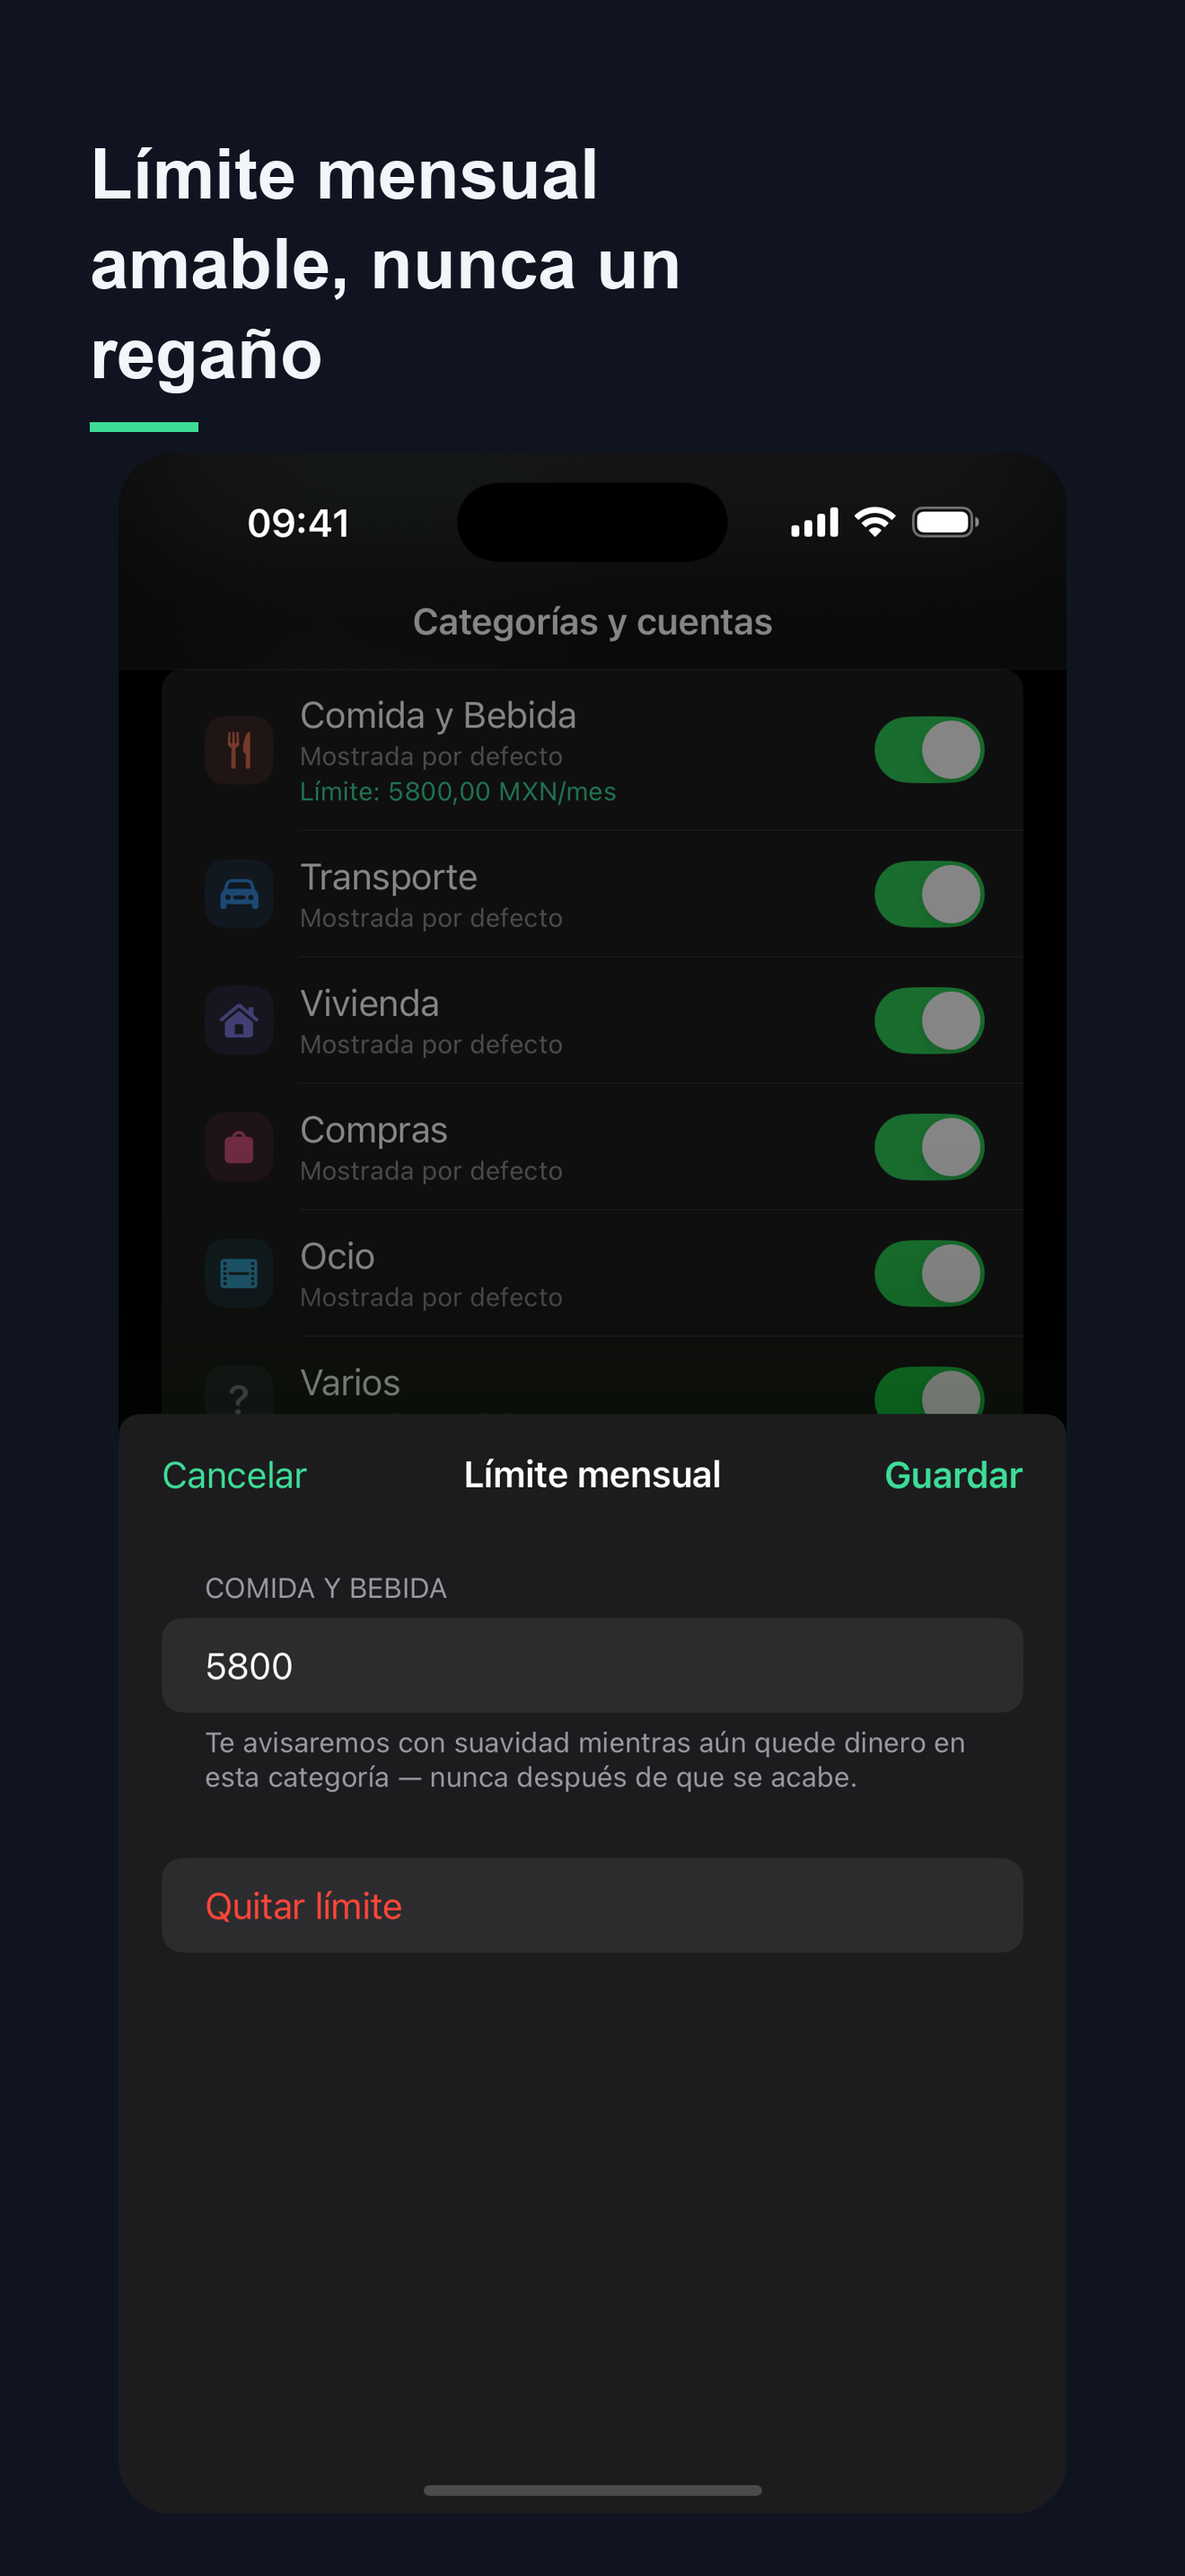
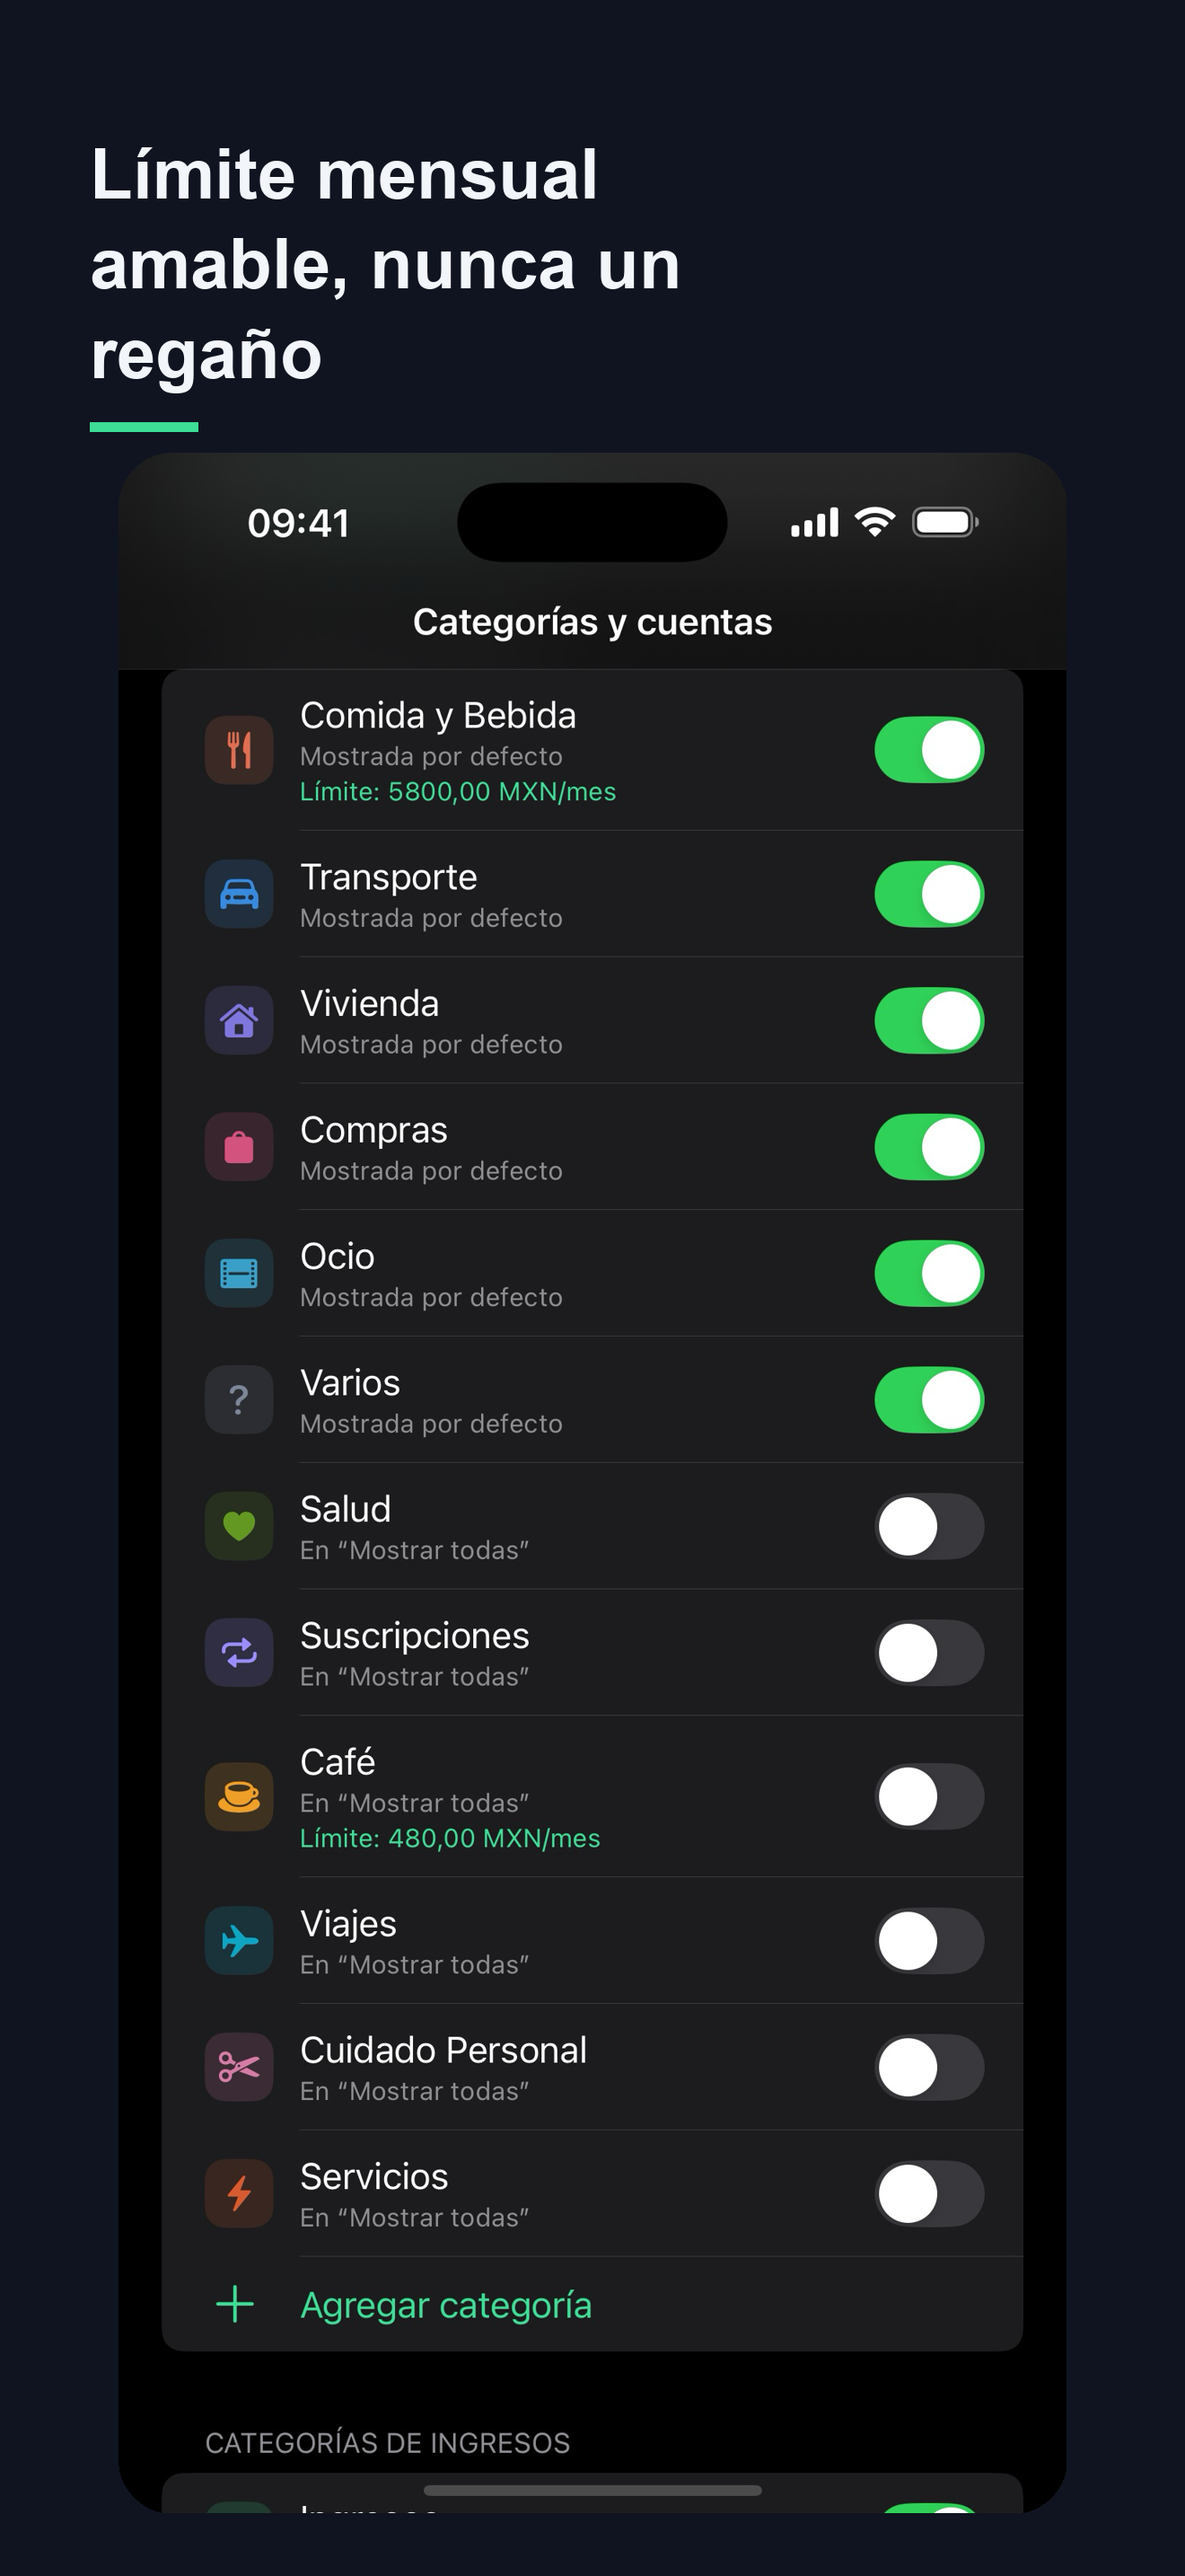
feat(screenshots): slot 06 shows the categories list, not the limit editor
The limit editor put a destructive red "Remove limit" button on a shelf frame.
Red reads as a warning next to a caption promising the opposite ("never a
scolding"), and it is off the mint palette every other frame keeps. Its .medium
detent also left roughly a third of the frame empty.

The list row already renders the mint "Limit: $600.00/month" label, so the
editor was never needed to prove the feature — the list proves it and fills the
frame. Both seeded limits are in view (Food & Drink and Coffee), and the seed is
unchanged, so month-to-date spend still sits in the gentle warn band rather than
at or over the limit.

`.categorylimit` now scrolls the limited row to the top and stops there. The
editor stays routable as `.categorylimitsheet` for ad-hoc captures, so nothing
is lost.

Capture gained an ONLY=<names> filter: a one-slot redo must not perturb the
seven frames already approved in 636e515. Verified — those seven recompose
byte-identical, and only the five 06_limits.png changed.

Limit label confirmed present and no red affordance in frame for all five
locales: EN/ES/PT-BR by OCR, RU/UK by eye (tesseract here has no Cyrillic data).

diff --git a/FinanceTracker/Views/Settings/CategoriesSourcesView.swift b/FinanceTracker/Views/Settings/CategoriesSourcesView.swift
@@ -109,18 +109,24 @@ struct CategoriesSourcesView: View {
         }
         .confirmationToast($toastMessage)
         // Screenshot seam (slot 06): App Store capture routes here to show the
-        // gentle monthly-limit surface, and `simctl` can't tap a row. Present the
-        // sheet for the first limited expense category the demo seed set. Gated on
+        // gentle monthly-limit surface, and `simctl` can't tap a row. Gated on
         // `requestedScreen`, which is nil in Release — a shipped build never does this.
+        //
+        // `.categorylimit` captures the LIST alone: the row already carries the
+        // mint "Limit: …/month" label, which is the whole proof of the feature, and
+        // a list fills the frame with no destructive "Remove limit" button in it.
+        // `.categorylimitsheet` keeps the editor routable for ad-hoc captures.
         .task {
-            guard ScreenshotMode.requestedScreen == .categorylimit else { return }
+            let screen = ScreenshotMode.requestedScreen
+            guard screen == .categorylimit || screen == .categorylimitsheet else { return }
             // Let the @Query settle after the demo seed's save before reading it.
             try? await Task.sleep(for: .milliseconds(500))
             guard let limited = expenseCategories.first(where: { ($0.limitCents ?? 0) > 0 })
             else { return }
-            // Scroll the limited row to the top so the strip left visible above the
-            // sheet shows the category and its limit, not the Accounts list.
+            // Scroll the limited row to the top so the frame opens on the limited
+            // categories, not the Accounts list.
             scroll.scrollTo(limited.uuid, anchor: .top)
+            guard screen == .categorylimitsheet else { return }
             try? await Task.sleep(for: .milliseconds(400))
             editingLimitCategory = limited
         }

diff --git a/FinanceTracker/Views/ContentView.swift b/FinanceTracker/Views/ContentView.swift
@@ -290,7 +290,8 @@ struct ContentView: View {
         case .dashboard:  selectedTab = 0
         case .analytics:  selectedTab = 3   // AnalyticsView selects .breakdown itself
         case .quickentry: showAddSheet = true
-        case .privacy, .categories, .categorylimit, .split, .export, .lifetime:
+        case .privacy, .categories, .categorylimit, .categorylimitsheet,
+             .split, .export, .lifetime:
             screenshotCover = screen
         case .lock:
             break   // handled upstream by AuthGateView
@@ -304,9 +305,10 @@ struct ContentView: View {
         case .privacy:    PrivacySettingsView()
         case .categories: CategoriesSourcesView()
         // Slot 06 is the same Categories surface; CategoriesSourcesView reads
-        // `requestedScreen` and auto-presents the monthly-limit sheet for the
-        // seeded limited category, so the frame shows the real gentle-limit UI.
-        case .categorylimit: CategoriesSourcesView()
+        // `requestedScreen` and scrolls the seeded limited category to the top,
+        // so the frame is the real list with its mint "Limit: …/month" rows.
+        // `.categorylimitsheet` additionally opens the limit editor (off-shelf).
+        case .categorylimit, .categorylimitsheet: CategoriesSourcesView()
         // Slot 05 — the split editor on the seeded multi-category purchase.
         case .split:
             if let tx = screenshotSplitTransaction() {

diff --git a/FinanceTracker/Data/ScreenshotMode.swift b/FinanceTracker/Data/ScreenshotMode.swift
@@ -29,13 +29,16 @@ enum ScreenshotMode {
         case quickentry     // 03 — fast capture
         case analytics      // 04 — breakdown chart (split contributes)
         case split          // 05 — one purchase across categories (1.0.3)
-        case categorylimit  // 06 — gentle monthly category limit (1.0.3)
+        case categorylimit  // 06 — gentle monthly category limit (1.0.3), list only
         case export         // 07 — data ownership / export
         case lifetime       // 08 — ownership close
         // Retired from the shelf at 1.0.3 (05_categories / 06_faceid) but kept
         // routable: AuthGateView still reads `.lock`, and both remain useful for
-        // ad-hoc captures.
+        // ad-hoc captures. `categorylimitsheet` is the limit EDITOR — off the shelf
+        // because its destructive "Remove limit" button reads as a warning, and its
+        // .medium detent leaves a third of the frame empty.
         case categories
+        case categorylimitsheet
         case lock
     }
 

diff --git a/AppStore/screenshots-storyboard.md b/AppStore/screenshots-storyboard.md
@@ -21,7 +21,7 @@ Most users see only the first 2–3 thumbnails, so the privacy wedge — the sin
 | 3 | Core feature | QuickEntry | Show the "aha" — effortless capture |
 | 4 | Insight | Analytics breakdown | Proof of payoff |
 | 5 | Depth (1.0.3) | Split editor | One purchase, several categories |
-| 6 | Care (1.0.3) | Category monthly limit | Warns while money is LEFT, never after |
+| 6 | Care (1.0.3) | Category limits on the categories list | Warns while money is LEFT, never after |
 | 7 | Ownership of data | Export (CSV/PDF/Excel) | "Your data, portable" — no lock-in |
 | 8 | CTA | Lifetime / clean close | Calm close, ownership |
 
@@ -90,16 +90,19 @@ Most users see only the first 2–3 thumbnails, so the privacy wedge — the sin
   the on-screen section header agree word-for-word.
 
 ### SCREENSHOT 6 — CARE · Category monthly limit  *(new in 1.0.3, replaces Face ID lock)*
-- **Visual:** `CategoriesSourcesView` scrolled to the limited category (mint
-  "Limit: $600.00/month") with the Monthly limit sheet presented over it. The sheet's footer is
-  the proof of the caption: "a gentle heads-up while there's still money left — never after
-  it's gone."
+- **Visual:** `CategoriesSourcesView` alone, scrolled so the limited categories lead the frame —
+  Food & Drink "Limit: $600.00/month" and Coffee "Limit: $40.00/month", both in mint. The row
+  label IS the feature's proof, so the list needs no sheet over it.
 - **Route:** `--screenshot-screen categorylimit`. The seed sets limits so month-to-date spend
   lands at ~70–80% used — the gentle warn band. NEVER seed an at/over-limit state: the app
   deliberately says nothing there (`CategoryLimitPolicy`), so there'd be nothing to show.
+- **No sheet on the shelf:** the limit editor was slot 06 through 636e515 and was pulled — it
+  puts a destructive red "Remove limit" button on a shelf frame (reads as a warning, off the
+  mint palette) and its `.medium` detent leaves ~30% of the frame empty. It stays routable as
+  `--screenshot-screen categorylimitsheet` for ad-hoc captures.
 - **Notes:** There is no in-app "X left in <category>" surface — that sentence only exists as a
   local-notification body, which can't be captured under `simctl` and mustn't be faked (2.3.3).
-  The limit label + the promise footer are the honest real-UI equivalent.
+  The mint limit label is the honest real-UI equivalent; the caption carries the "gentle" promise.
 
 ### SCREENSHOT 7 — DATA OWNERSHIP · Export
 - **Visual:** Data settings export sheet — CSV / PDF / Excel options visible.
